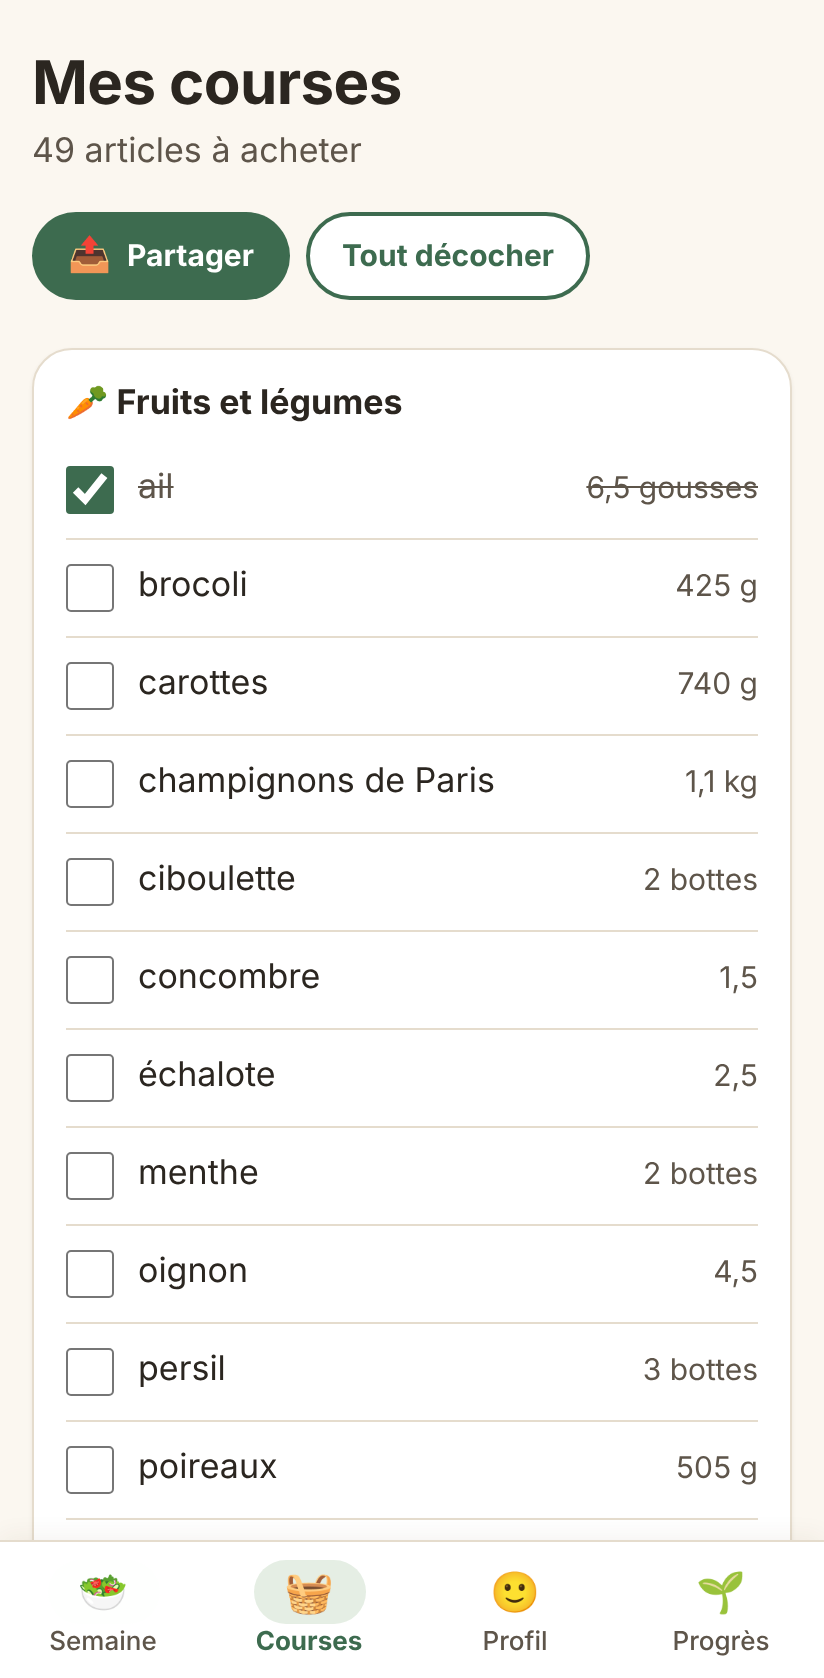
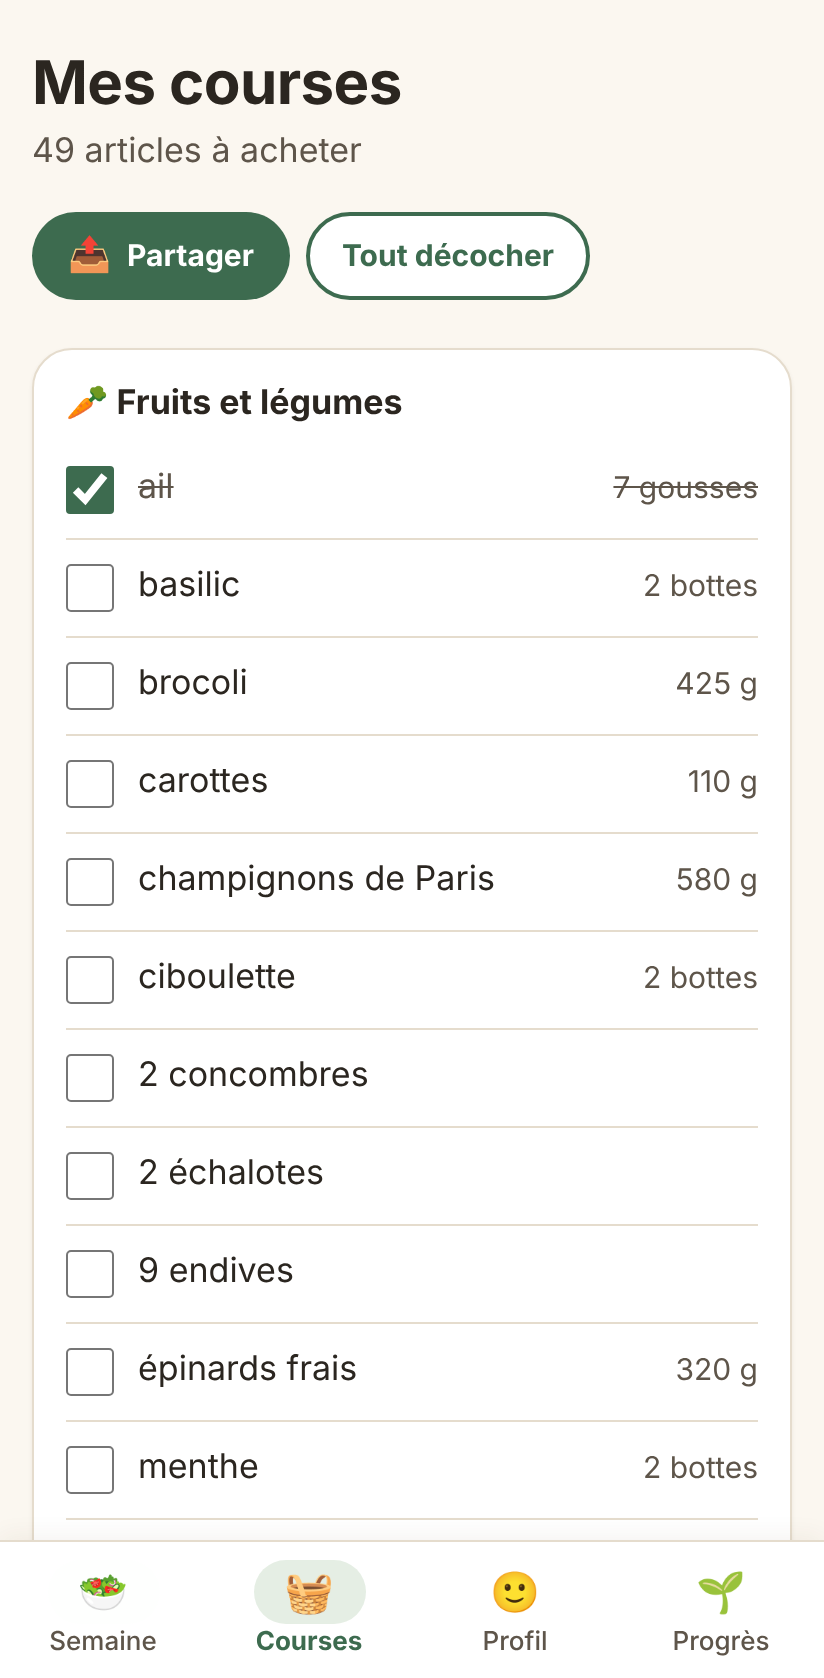
perf(presentation): écrans secondaires et base IndexedDB chargés à la demande
- React.lazy + Suspense (attente annoncée) pour onboarding, Profil, Progrès,
  Frigo, Recette, Confidentialité
- composition root : adaptateurs Dexie importés à la demande derrière des
  mandataires asynchrones
- paquet initial 414 kB → 269 kB (gzip 138 → 92 kB) ; e2e hors ligne étendu
  aux écrans chargés à la demande ; captures régénérées

Claude-Session: https://claude.ai/code/session_013DAqugnhAV6JwpwQeECSpA

diff --git a/src/presentation/app/App.tsx b/src/presentation/app/App.tsx
@@ -1,4 +1,4 @@
-import { useEffect, useMemo, useState } from 'react';
+import { Suspense, lazy, useEffect, useMemo, useState } from 'react';
 import { HashRouter, Navigate, Route, Routes } from 'react-router-dom';
 import { useDependencies } from './dependencies';
 import { AppStateContext } from './appState';
@@ -8,15 +8,33 @@ import type { Tab } from '../components/TabBar';
 import { ToastProvider } from '../components/Toast';
 import { DailyQuiz } from '../features/quiz/DailyQuiz';
 import { applyTheme, cachedTheme } from '../hooks/theme';
-import { FridgePage } from '../pages/FridgePage';
-import { OnboardingPage } from '../pages/OnboardingPage';
-import { PrivacyPage } from '../pages/PrivacyPage';
-import { ProfilePage } from '../pages/ProfilePage';
-import { ProgressPage } from '../pages/ProgressPage';
-import { RecipePage } from '../pages/RecipePage';
 import { ShoppingPage } from '../pages/ShoppingPage';
 import { WeekPage } from '../pages/WeekPage';
 import styles from './App.module.css';
+
+/*
+ * Découpage par route : Semaine et Courses (les plus utilisés) sont dans le paquet
+ * initial ; les autres écrans se chargent à la demande (et sont précachés pour le
+ * hors-ligne par le service worker).
+ */
+const OnboardingPage = lazy(() =>
+  import('../pages/OnboardingPage').then((m) => ({ default: m.OnboardingPage })),
+);
+const ProfilePage = lazy(() =>
+  import('../pages/ProfilePage').then((m) => ({ default: m.ProfilePage })),
+);
+const ProgressPage = lazy(() =>
+  import('../pages/ProgressPage').then((m) => ({ default: m.ProgressPage })),
+);
+const FridgePage = lazy(() =>
+  import('../pages/FridgePage').then((m) => ({ default: m.FridgePage })),
+);
+const RecipePage = lazy(() =>
+  import('../pages/RecipePage').then((m) => ({ default: m.RecipePage })),
+);
+const PrivacyPage = lazy(() =>
+  import('../pages/PrivacyPage').then((m) => ({ default: m.PrivacyPage })),
+);
 
 const TABS: readonly Tab[] = [
   { to: '/semaine', label: 'Semaine', emoji: '🥗' },
@@ -24,6 +42,15 @@ const TABS: readonly Tab[] = [
   { to: '/profil', label: 'Profil', emoji: '🙂' },
   { to: '/progres', label: 'Progrès', emoji: '🌱' },
 ];
+
+/** Attente sobre et annoncée (chargement initial ou d'un écran). */
+function Loading() {
+  return (
+    <p className={styles.loading} role="status">
+      <span aria-hidden="true">🥕</span> Un instant…
+    </p>
+  );
+}
 
 function focusMain() {
   const main = document.getElementById('contenu');
@@ -77,27 +104,29 @@ function Shell() {
           className={`${styles.main} ${ready ? styles.withTabs : ''}`}
         >
           {profileStatus === 'loading' ? (
-            <p className={styles.loading} role="status">
-              <span aria-hidden="true">🥕</span> Un instant…
-            </p>
+            <Loading />
           ) : ready ? (
-            <Routes>
-              <Route path="/" element={<Navigate to="/semaine" replace />} />
-              <Route path="/semaine" element={<WeekPage />} />
-              <Route path="/courses" element={<ShoppingPage />} />
-              <Route path="/profil" element={<ProfilePage />} />
-              <Route path="/progres" element={<ProgressPage />} />
-              <Route path="/frigo" element={<FridgePage />} />
-              <Route path="/recette/:id" element={<RecipePage />} />
-              <Route path="/confidentialite" element={<PrivacyPage />} />
-              <Route path="*" element={<Navigate to="/semaine" replace />} />
-            </Routes>
+            <Suspense fallback={<Loading />}>
+              <Routes>
+                <Route path="/" element={<Navigate to="/semaine" replace />} />
+                <Route path="/semaine" element={<WeekPage />} />
+                <Route path="/courses" element={<ShoppingPage />} />
+                <Route path="/profil" element={<ProfilePage />} />
+                <Route path="/progres" element={<ProgressPage />} />
+                <Route path="/frigo" element={<FridgePage />} />
+                <Route path="/recette/:id" element={<RecipePage />} />
+                <Route path="/confidentialite" element={<PrivacyPage />} />
+                <Route path="*" element={<Navigate to="/semaine" replace />} />
+              </Routes>
+            </Suspense>
           ) : (
-            <Routes>
-              <Route path="/bienvenue" element={<OnboardingPage />} />
-              <Route path="/confidentialite" element={<PrivacyPage />} />
-              <Route path="*" element={<Navigate to="/bienvenue" replace />} />
-            </Routes>
+            <Suspense fallback={<Loading />}>
+              <Routes>
+                <Route path="/bienvenue" element={<OnboardingPage />} />
+                <Route path="/confidentialite" element={<PrivacyPage />} />
+                <Route path="*" element={<Navigate to="/bienvenue" replace />} />
+              </Routes>
+            </Suspense>
           )}
         </main>
         {ready && <TabBar tabs={TABS} />}

diff --git a/src/main.tsx b/src/main.tsx
@@ -11,17 +11,6 @@ import { ZodBackupValidator } from '@infrastructure/backup/ZodBackupValidator';
 import { JsonQuizRepository, JsonRecipeRepository } from '@infrastructure/catalog/JsonCatalog';
 import { SystemClock } from '@infrastructure/clock/SystemClock';
 import { WebCryptoCipher } from '@infrastructure/crypto/WebCryptoCipher';
-import { NutryDatabase } from '@infrastructure/db/NutryDatabase';
-import {
-  DexiePlanRepository,
-  DexieProfileRepository,
-  DexieProgressRepository,
-  DexieQuizStateRepository,
-  DexieRatingRepository,
-  DexieSettingsRepository,
-  DexieShoppingRepository,
-  DexieUserDataStore,
-} from '@infrastructure/db/repositories';
 import {
   DownloadFileSaver,
   browserDownloadEnvironment,
@@ -34,19 +23,53 @@ import { DependenciesProvider } from '@presentation/app/dependencies';
 import '@presentation/theme/tokens.css';
 import '@presentation/theme/global.css';
 
-const db = new NutryDatabase();
+/**
+ * Base IndexedDB (Dexie) chargée à la demande : elle sort du paquet initial et se
+ * télécharge en parallèle du premier rendu. Chaque dépôt est un mandataire dont les
+ * méthodes (toutes asynchrones, voir les ports) attendent le vrai dépôt.
+ */
+async function importRepositories() {
+  const [{ NutryDatabase }, repositories] = await Promise.all([
+    import('@infrastructure/db/NutryDatabase'),
+    import('@infrastructure/db/repositories'),
+  ]);
+  return { ...repositories, db: new NutryDatabase() };
+}
+let repositoriesLoading: ReturnType<typeof importRepositories> | undefined;
+const loadRepositories = () => (repositoriesLoading ??= importRepositories());
+
+type Repositories = Awaited<ReturnType<typeof loadRepositories>>;
+
+/** Mandataire asynchrone d'un port : chaque appel attend l'adaptateur réel. */
+function lazyPort<T extends object>(create: (r: Repositories) => T): T {
+  let instance: Promise<T> | undefined;
+  const get = () => (instance ??= loadRepositories().then(create));
+  return new Proxy({} as T, {
+    get(_target, property) {
+      // Pas un « thenable » : `await port` ne doit pas appeler `then`.
+      if (property === 'then') return undefined;
+      return (...args: unknown[]) =>
+        get().then((port) => {
+          const method = (port as Record<PropertyKey, unknown>)[property];
+          if (typeof method !== 'function')
+            throw new TypeError(`Méthode inconnue : ${String(property)}`);
+          return (method as (...a: unknown[]) => unknown).apply(port, args);
+        });
+    },
+  });
+}
 
 const ports: AppPorts = {
   clock: new SystemClock(),
   random: new MathRandomSource(),
-  profiles: new DexieProfileRepository(db),
-  plans: new DexiePlanRepository(db),
-  ratings: new DexieRatingRepository(db),
-  progress: new DexieProgressRepository(db),
-  quizState: new DexieQuizStateRepository(db),
-  shopping: new DexieShoppingRepository(db),
-  settings: new DexieSettingsRepository(db),
-  userData: new DexieUserDataStore(db),
+  profiles: lazyPort((r) => new r.DexieProfileRepository(r.db)),
+  plans: lazyPort((r) => new r.DexiePlanRepository(r.db)),
+  ratings: lazyPort((r) => new r.DexieRatingRepository(r.db)),
+  progress: lazyPort((r) => new r.DexieProgressRepository(r.db)),
+  quizState: lazyPort((r) => new r.DexieQuizStateRepository(r.db)),
+  shopping: lazyPort((r) => new r.DexieShoppingRepository(r.db)),
+  settings: lazyPort((r) => new r.DexieSettingsRepository(r.db)),
+  userData: lazyPort((r) => new r.DexieUserDataStore(r.db)),
   // Catalogues chargés à la demande (import dynamique) : rien de plus au premier rendu.
   recipes: new JsonRecipeRepository(),
   quizBank: new JsonQuizRepository(),

diff --git a/e2e/parcours-principal.spec.ts b/e2e/parcours-principal.spec.ts
@@ -74,6 +74,11 @@ test('fonctionne hors ligne après une première visite', async ({ page, context
   await expect(page.getByTestId('meal')).toHaveCount(14);
   await page.getByRole('link', { name: 'Courses' }).click();
   await expect(page.getByRole('heading', { name: 'Mes courses', level: 1 })).toBeVisible();
+  // Écrans chargés à la demande : leurs morceaux sont précachés.
+  await page.getByRole('link', { name: 'Profil' }).click();
+  await expect(page.getByRole('heading', { name: 'Mon profil', level: 1 })).toBeVisible();
+  await page.getByRole('link', { name: 'Progrès' }).click();
+  await expect(page.getByRole('heading', { name: 'Mes progrès', level: 1 })).toBeVisible();
   await context.setOffline(false);
 });
 
